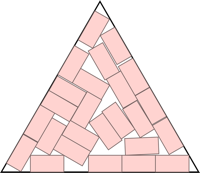
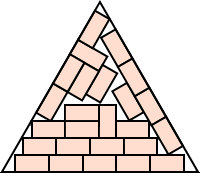
tri

Changed region(s): [[0.0, 0.0, 1.0, 1.0], [0.78, 0.578, 0.81, 0.6358]]

diff --git a/packing/penintri/index.html b/packing/penintri/index.html
@@ -16,5 +16,9 @@
 
 <TABLE BORDER=0 width=100% cellspacing=0><TR align=center>
<TD><font size=+3>25.<br><img align=abscenter src="25.png">
<td>&nbsp;&nbsp;&nbsp;&nbsp;&nbsp;&nbsp;&nbsp;&nbsp;&nbsp;&nbsp;
<TD><font size=+3>26.<br><img align=abscenter src="26.png">
<td>&nbsp;&nbsp;&nbsp;&nbsp;&nbsp;&nbsp;&nbsp;&nbsp;&nbsp;&nbsp;
<TD><font size=+3>27.<br><img align=abscenter src="27.png">
</tr><TR align=center>
<td align=center><font size=+1>s = 11.32392+<br>Found by Jake Loyd<br>in June 2026.
<TD><td align=center><font size=+1>s = 11.47102+<br>Found by Jonathan Viquerat<br>in May 2026.
 <TD><td align=center><font size=+1>s = 11.62853+<br>Found by Mohamed Metwalli<br>in June 2026.
+</TR></TABLE><p><hr><p>
+
+<TABLE BORDER=0 width=100% cellspacing=0><TR align=center>
<TD><font size=+3>28.<br><img align=abscenter src="28.png">
<td>&nbsp;&nbsp;&nbsp;&nbsp;&nbsp;&nbsp;&nbsp;&nbsp;&nbsp;&nbsp;
<TD><font size=+3>29.<br><img align=abscenter src="29.png">
<td>&nbsp;&nbsp;&nbsp;&nbsp;&nbsp;&nbsp;&nbsp;&nbsp;&nbsp;&nbsp;
<TD><font size=+3>30.<br><img align=abscenter src="30.png">
</tr><TR align=center>
<td align=center><font size=+1>s = 11.69576+<br>Found by Mohamed Metwalli<br>in June 2026.
<TD><td align=center><font size=+1>s = 12.18631+<br>Found by Mohamed Metwalli<br>in June 2026.
+<TD><td align=center><font size=+1>s = 12.40449+<br>Found by Mohamed Metwalli<br>in June 2026.
 </TR></TABLE><p><hr><p>
 </BODY>
</HTML>

diff --git a/packing/domintri/index.html b/packing/domintri/index.html
@@ -10,5 +10,5 @@
 
 <TABLE BORDER=0 width=100% cellspacing=0><TR align=center>
<TD><font size=+3>22.<br><img src="22.png" align=abscenter>
<td>&nbsp;&nbsp;&nbsp;&nbsp;&nbsp;&nbsp;&nbsp;&nbsp;&nbsp;&nbsp;
<TD><font size=+3>23.<br><img src="23.png" align=abscenter>
<td>&nbsp;&nbsp;&nbsp;&nbsp;&nbsp;&nbsp;&nbsp;&nbsp;&nbsp;&nbsp;
<TD><font size=+3>24.<br><img src="24.png" align=abscenter>
</tr><tr>
<td align=center><font size=+1>s = 4(1+&radic;3) = 10.92820+<br>Found by Maurizio Morandi<br>in April 2026.
<TD><td align=center><font size=+1>s = 10+2/&radic;3 = 11.15470+<br>Found by Maurizio Morandi<br>in April 2026.
<TD><td align=center><font size=+1>s = 9+4/&radic;3 = 11.30940+<br>Found by Maurizio Morandi<br>in April 2026.
</TR></TABLE><p><hr><p>
 
-<TABLE BORDER=0 width=100% cellspacing=0><TR align=center>
<TD><font size=+3>25.<br><img src="25.png" align=abscenter>
<td>&nbsp;&nbsp;&nbsp;&nbsp;&nbsp;&nbsp;&nbsp;&nbsp;&nbsp;&nbsp;
<TD><font size=+3>26.<br><img src="26.png" align=abscenter>
<td>&nbsp;&nbsp;&nbsp;&nbsp;&nbsp;&nbsp;&nbsp;&nbsp;&nbsp;&nbsp;
<TD><font size=+3>27.<br><img src="27.png" align=abscenter>
</tr><tr>
<td align=center><font size=+1>s = 11.77350+<br>Found by Thomas Greenleaf<br>in June 2026.
<TD><td align=center><font size=+1>s = 12.09134+<br>Found by Thomas Greenleaf<br>in June 2026.
<TD><td align=center><font size=+1>s = 12.64739+<br>Found by Thomas Greenleaf<br>in June 2026.
</TR></TABLE><p><hr><p>
+<TABLE BORDER=0 width=100% cellspacing=0><TR align=center>
<TD><font size=+3>25.<br><img src="25.png" align=abscenter>
<td>&nbsp;&nbsp;&nbsp;&nbsp;&nbsp;&nbsp;&nbsp;&nbsp;&nbsp;&nbsp;
<TD><font size=+3>26.<br><img src="26.png" align=abscenter>
<td>&nbsp;&nbsp;&nbsp;&nbsp;&nbsp;&nbsp;&nbsp;&nbsp;&nbsp;&nbsp;
<TD><font size=+3>27.<br><img src="27.png" align=abscenter>
</tr><tr>
<td align=center><font size=+1>s = 7+8/&radic;3 = 11.61880+<br>Found by Maurizio Morandi<br>in June 2026.
<TD><td align=center><font size=+1>s = 2+17/&radic;3 = 11.81495+<br>Found by Maurizio Morandi<br>in June 2026.
<TD><td align=center><font size=+1>s = 4+14/&radic;3 = 12.08290+<br>Found by Maurizio Morandi<br>in June 2026.
</TR></TABLE><p><hr><p>
 
</BODY>
</HTML>

diff --git a/packing/index.html b/packing/index.html
@@ -10,7 +10,7 @@
 <TD width=11%><center><A HREF="tanintri/" >
<IMG SRC="tanintri/tit.gif" width=105 height=91></center></A></TD>
 <TD width=11%><center><A HREF="domintri/" >
<IMG SRC="domintri/dit.gif" width=108 height=93></center></A></TD>
 <TD width=11%><center><A HREF="Lintri/" >
<IMG SRC="Lintri/lit.gif" width=100 height=87></center></A></TD>
-</TR><TR>
<TD width=11%><center><font size=+1><b>Circles in Triangles</b></font>
<br>updated 7/19/02</TD>
<TD width=11%><center><font size=+1><b>Triangles in Triangles</b></font>
<br>updated 6/5/26</TD>
<TD width=11%><center><font size=+1><b>Squares in Triangles</b></font>
<br>updated 5/5/26</TD>
<TD width=11%><center><font size=+1><b>Pentagons in Triangles</b></font>
<br>updated 6/14/26</TD>
<TD width=11%><center><font size=+1><b>Hexagons in Triangles</b></font>
<br>updated 6/12/26</TD>
<TD width=11%><center><font size=+1><b>Octagons in Triangles</b></font>
<br>updated 6/14/26</TD>
<TD width=11%><center><font size=+1><b>Tans in Triangles</b></font>
<br>updated 6/15/26</TD>
<TD width=11%><center><font size=+1><b>Dominoes in Triangles</b></font>
<br>updated 6/11/26</TD>
<TD width=11%><center><font size=+1><b>L's in Triangles</b></font>
<br>updated 6/12/26</TD>
</TR></TABLE>


<TABLE BORDER=0 width=100% cellspacing=10><TR align=center>
<TD width=11%><center><A HREF="cirinsqu/" >
<IMG SRC="cirinsqu/cis.gif" width=94 height=94></center></A></TD>
<TD width=11%><center><A HREF="triinsqu/" >
<IMG SRC="triinsqu/tis.gif" width=94 height=95></center></A></TD>
<TD width=11%><center><A HREF="https://kingbird.myphotos.cc/packing/squares_in_squares.html" >
<IMG SRC="squinsqu/sis.gif" width=93 height=94></center></A></TD>
<TD width=11%><center><A HREF="peninsqu/" >
<IMG SRC="peninsqu/pis.gif" width=98 height=98></center></A></TD>
<TD width=11%><center><A HREF="hexinsqu/" >
<IMG SRC="hexinsqu/his.gif" width=90 height=90></center></A></TD>
+</TR><TR>
<TD width=11%><center><font size=+1><b>Circles in Triangles</b></font>
<br>updated 7/19/02</TD>
<TD width=11%><center><font size=+1><b>Triangles in Triangles</b></font>
<br>updated 6/5/26</TD>
<TD width=11%><center><font size=+1><b>Squares in Triangles</b></font>
<br>updated 5/5/26</TD>
<TD width=11%><center><font size=+1><b>Pentagons in Triangles</b></font>
<br>updated 6/15/26</TD>
<TD width=11%><center><font size=+1><b>Hexagons in Triangles</b></font>
<br>updated 6/12/26</TD>
<TD width=11%><center><font size=+1><b>Octagons in Triangles</b></font>
<br>updated 6/14/26</TD>
<TD width=11%><center><font size=+1><b>Tans in Triangles</b></font>
<br>updated 6/15/26</TD>
<TD width=11%><center><font size=+1><b>Dominoes in Triangles</b></font>
<br>updated 6/15/26</TD>
<TD width=11%><center><font size=+1><b>L's in Triangles</b></font>
<br>updated 6/12/26</TD>
</TR></TABLE>


<TABLE BORDER=0 width=100% cellspacing=10><TR align=center>
<TD width=11%><center><A HREF="cirinsqu/" >
<IMG SRC="cirinsqu/cis.gif" width=94 height=94></center></A></TD>
<TD width=11%><center><A HREF="triinsqu/" >
<IMG SRC="triinsqu/tis.gif" width=94 height=95></center></A></TD>
<TD width=11%><center><A HREF="https://kingbird.myphotos.cc/packing/squares_in_squares.html" >
<IMG SRC="squinsqu/sis.gif" width=93 height=94></center></A></TD>
<TD width=11%><center><A HREF="peninsqu/" >
<IMG SRC="peninsqu/pis.gif" width=98 height=98></center></A></TD>
<TD width=11%><center><A HREF="hexinsqu/" >
<IMG SRC="hexinsqu/his.gif" width=90 height=90></center></A></TD>
 <TD width=11%><center><A HREF="octinsqu/" >
<IMG SRC="octinsqu/ois.gif" width=100 height=100></center></A></TD>
 <TD width=11%><center><A HREF="taninsqu/" >
<IMG SRC="taninsqu/tis.gif" width=98 height=98></center></A></TD>
<TD width=11%><center><A HREF="dominsqu/" >
<IMG SRC="dominsqu/dis.gif" width=100 height=100></center></A></TD>
 <TD width=11%><center><A HREF="linsqu/" >
<IMG SRC="linsqu/lis.gif" width=98 height=98></center></A></TD>
</TR><TR>
<TD width=11%><center><font size=+1><b>Circles in Squares</b></font>
<br>updated 10/9/10</TD>
<TD width=11%><center><font size=+1><b>Triangles in Squares</b></font>
<br>updated 6/5/26</TD>
<TD width=11%><center><font size=+1><b>Squares in Squares</b></font>
<br>(David Ellsworth's page)</TD>
<TD width=11%><center><font size=+1><b>Pentagons in Squares</b></font>
<br>updated 6/11/26</TD>
<TD width=11%><center><font size=+1><b>Hexagons in Squares</b></font>
<br>updated 6/12/26</TD>
<TD width=11%><center><font size=+1><b>Octagons in Squares</b></font>
<br>updated 5/4/26</TD>
<TD width=11%><center><font size=+1><b>Tans in Squares</b></font>
<br>updated 3/7/08</TD>
<TD width=11%><center><font size=+1><b>Dominoes in Squares</b></font>
<br>updated 6/2/26</TD>
<TD width=11%><center><font size=+1><b>L's in Squares</b></font>
<br>updated 5/1/26</TD>
</TR></TABLE>


<TABLE BORDER=0 width=100% cellspacing=10><TR align=center>
<TD width=12%><center><A HREF="cirinpen/" >
<IMG SRC="cirinpen/cip.gif" width=93 height=88></center></A></TD>